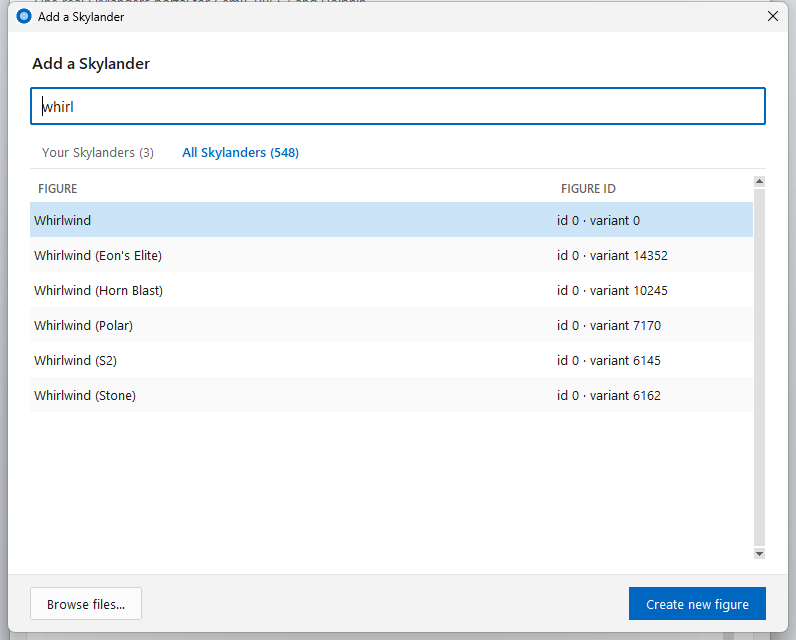
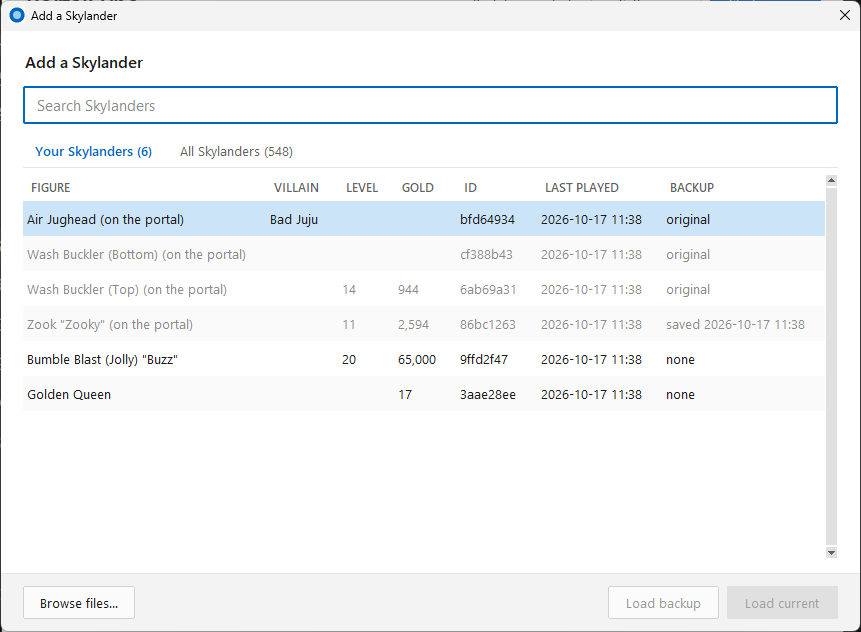
README and screenshots for PortalSync
New screenshots of the current version (test figures, made-up paths): main
window, Add Skylander, collection, restore, right-click menu, Settings,
Start a game, welcome window, dark mode. README rewritten around all
features. The collection's per-game count now wraps instead of being cut off.

diff --git a/portal_bridge.py b/portal_bridge.py
@@ -2398,7 +2398,7 @@ class App:
             self.tab_buttons[key] = ttk.Radiobutton(tabs, variable=self.tab, value=key, style='Tab.TRadiobutton',
                                                     command=self.switch_tab)
             self.tab_buttons[key].pack(side='left', padx=(0, 4))
-        self.summary = ttk.Label(body, style='CardMuted.TLabel')  # All Skylanders: what you have per game
+        self.summary = ttk.Label(body, style='CardMuted.TLabel', wraplength=740)  # All Skylanders: what you have per game
         self.summary_anchor = tk.Frame(body, background=self.LINE, height=1)
         self.summary_anchor.pack(fill='x')
 

diff --git a/README.md b/README.md
@@ -2,55 +2,92 @@
 
 *Formerly Portal Bridge.*
 
-Use one real Skylanders Portal of Power with **Cemu** (Wii U), **RPCS3** (PS3) and **Dolphin** (Wii) on Windows.
+Use one real Skylanders Portal of Power with **Cemu** (Wii U), **RPCS3** (PS3) and **Dolphin** (Wii) on Windows, and keep your game progress on your real figures.
 
-PortalSync creates a *virtual* portal over USB/IP. Every figure you place on the real portal is copied into the virtual portal, and the emulator talks only to the virtual one. The real portal can stay plugged in the whole time: a small DLL hides it from the emulators, so games never say "too many Portals".
+PortalSync creates a *virtual* portal over USB/IP. Every figure you place on the real portal is copied into the virtual portal, and the emulator talks only to the virtual one. Game saves go back onto the real figure. The real portal can stay plugged in the whole time: a small DLL hides it from the emulators, so games never say "too many Portals".
 
 ![The PortalSync window](docs/window.png)
 
+## Highlights
+
+- **One portal for three emulators:** Cemu, RPCS3 and Dolphin, with the real portal plugged in.
+- **Your progress stays on your figures:** game saves are written back to the real figure, and every block is checked.
+- **Backups of every figure**, with a pop-up to put newer progress back when a figure is behind its copy.
+- **See inside your figures:** level, gold, nickname, and the villain inside a Trap Team trap.
+- **Repair a damaged figure.** That's the one the game rejects with "A toy on the portal has a problem". You can also edit gold, nickname and level, or reset a figure to new.
+- **Trap Team sound** on the Traptanium Portal's own speaker, and the **portal lights** follow the game.
+- **Start your games from PortalSync**, a **Settings** page, a **welcome window** and **dark mode**.
+
+## Screenshots
+
+| | |
+| --- | --- |
+| ![Add a Skylander: your figures with level, gold and villain](docs/add.png) | ![All Skylanders: game, element and the ones you have](docs/collection.png) |
+| **Add Skylander**: your figures, with level, gold and the villain in a trap. | **All Skylanders**: all 548 figures, with game, element and a tick for yours. |
+| ![The restore pop-up](docs/restore.png) | ![Right-click a figure](docs/menu.png) |
+| **Restore**: put newer progress back on a figure, one figure at a time. | **Right-click a figure** to unload, edit, repair, reset or restore it. |
+| ![Settings](docs/settings.png) | ![Start a game](docs/games.png) |
+| **Settings**: hover over or click a **?** for an explanation. | **Start game**: your Skylanders games from Cemu, RPCS3 and Dolphin. |
+| ![The welcome window](docs/welcome.png) | ![Dark mode](docs/dark.png) |
+| **Welcome window** on the first start. | **Dark mode.** |
+
 ## Features
 
-- **Works with Cemu, RPCS3 and Dolphin**, with the real portal plugged in.
-- **Game saves go back to your figures** ("Write saves to real figures", on by default). Only data blocks are written, and every block is read back to check it.
-- **Backups of every figure** in the `dumps` folder, named after the character, for example `Zook (86bc1263) - original.sky`. Each figure keeps one backup, its newest. An older backup goes to the Recycle Bin, never straight to deletion.
-- **Restore saved progress.** If a figure's saved copy has progress the figure lacks, a pop-up offers to write it to the figure, one figure at a time. What the figure held before is kept as its backup, so a restore can be undone.
-- **Figure data.** Each figure's save is decrypted to show its level, gold and nickname in the Add Skylander list and the restore pop-up. For a Trap Team trap, it shows the villain inside (a Villain column in the Add Skylander list, for example Air Jughead: Bad Juju).
-- **Damaged saves are caught.** When a figure's newest save fails its checksum, the game says "A toy on the portal has a problem". PortalSync warns you as soon as such a figure is placed and offers to repair it, keeping all its progress. A damaged copy is never offered, written to a figure, or kept in place of an intact backup.
-- **Start game…** lists the Skylanders games your emulators know (Cemu's game paths, RPCS3's games.yml, Dolphin's ISO folders) and starts one with the bridge already running, so the real portal is hidden from the very start.
-- **Right-click a figure** in the slot table for Unload, Restore progress (that figure) and the actions below; the ones that write need a figure on the real portal. **Back up all figures…** (every figure into one zip) and **Restore progress…** (all figures) are on the **Settings…** page. Each action writes like a restore: what the figure held is kept as its backup, and every block is read back to check it.
-  - **Edit gold, nickname, level…**: saved the way the game saves, with the previous save kept on the figure as its fallback.
-  - **Repair damaged save…**: gives a damaged newest save valid checksums again and keeps all progress, which is what SuperChargers does.
-  - **Reset to a new figure…**: erases its progress, like a toy fresh out of the box.
-- **Collection.** The All Skylanders list shows each figure's game and element and ticks the ones you have, with a count per game.
-- **Details column** in the main window: level and gold, or the villain inside a trap.
-- **Settings…** page, all choices remembered:
-  - **Saving:** write saves to real figures; ask to put newer progress back on a figure; backups per figure (1–10); the figures folder (for example on OneDrive; your files move there on the next start).
-  - **Sound:** portal speaker volume; Trap portal sound on the portal speaker, the PC speakers, or off.
-  - **Portal:** lights on or off.
-  - **Emulators:** a path box with **Browse…** for Cemu, RPCS3 and Dolphin; start games in fullscreen.
-  - **Window:** show log; dark mode; check for a new version at start.
-- **Welcome window** on the first start: light or dark, write saves to figures, Trap portal sound, lights, update check and your emulators.
-  - **All figures:** back up all figures to a zip; restore progress.
-- **Drag and drop** `.sky` files onto the window to load them.
-- **Update check.** At start PortalSync looks up the latest release on GitHub, and shows a link in the window when there is a newer version.
-- **Saves are written safely.** A save that fails to reach the figure is tried up to three times. A newer save replaces an older retry, and the status line shows retries and failures; a failure also opens a pop-up. The progress is always in the figure's current `.sky` file. Turning write-back off cancels saves that are still waiting. Invalid block numbers and incomplete writes from the game are refused before anything reaches the portal. An empty, cut-off or unreadable backup never replaces an intact one.
-- **Trap Team sound** plays on the Traptanium Portal's own speaker, or on the PC speakers when no Traptanium Portal is connected.
-- **Portal lights** follow the game.
-- **Unplugging is safe.** Figures on the virtual portal stay loaded while the real portal is away, and saves made meanwhile are written when it comes back.
-- **Add Skylander window** with a search box, no file explorer needed:
-  - **Your Skylanders** lists every figure you have played. Load its current copy or its backup (a backup is loaded as a copy, so the backup itself never changes).
-  - **All Skylanders** lists all 548 figures, the 31 Imaginators Senseis included. **Create new figure** makes a blank one, fresh out of the box, the way Dolphin and RPCS3 create figures. It works without a real portal.
-  - **Browse files…** still loads any `.sky` file from elsewhere.
+### Portal and emulators
 
-![The Add Skylander window](docs/add.png)
+- **Cemu, RPCS3 and Dolphin** see only the virtual portal. `portal_hide.dll` hides the real one, so there's no "too many Portals".
+- **Start game…** lists the Skylanders games each emulator knows (Cemu's game paths, RPCS3's `games.yml`, Dolphin's ISO folders). It starts the one you pick with PortalSync already running, optionally in fullscreen.
+- **Fast recognition:** a figure is ready in about a second. Both halves of a Swapper take about 2.3 s.
+- **Unplugging is safe:** figures stay loaded while the real portal is away, and saves made meanwhile are written when it comes back.
+- **Pop-ups over fullscreen games:** a warning or a restore question takes the focus in front of the game, then gives it back.
 
-![The restore pop-up](docs/restore.png)
+### Figures
+
+- **Add Skylander** (no file explorer needed):
+  - **Your Skylanders:** every figure you've played, with level, gold, nickname, the villain in a trap, when it was last played, and its backup. Load its current copy or its backup.
+  - **All Skylanders:** all 548 figures, the 31 Imaginators Senseis included, with game, element and a tick for the ones you have, plus a count per game. **Create new figure** makes a blank one, fresh out of the box, like Dolphin and RPCS3 do.
+  - **Search** by name, ID, game or element.
+  - **Browse files…** for any other `.sky` file, or **drag and drop** `.sky` files onto the window.
+- **Details** in the main window: level and gold, or "holds Bad Juju" for a trap.
+- **Trap Team traps:** PortalSync shows which villain is inside, and which villains it held before. The 46 villain IDs come from the game's own files.
+
+### Saves and backups
+
+- **Write saves to real figures** (on by default). Only data blocks are written, and every block is read back to check it.
+  - **Retries:** a save that fails is tried up to three times, and a newer save replaces an older retry. The status line shows retries and failures.
+  - **Nothing invalid reaches the figure:** invalid or incomplete writes from the game are refused first.
+- **Backups** in the `dumps` folder, named after the character, for example `Zook (86bc1263) - original.sky`.
+  - Keep 1 to 10 per figure. Older ones go to the Recycle Bin, never straight to deletion.
+  - An empty, cut-off or damaged copy never replaces an intact backup.
+- **Restore progress:** when a figure you place is behind its saved copy, a pop-up offers to write that progress onto the figure. What the figure held is kept as its backup, so a restore can be undone.
+- **Damaged saves:** when a figure's newest save fails its checksum, the game says "A toy on the portal has a problem". PortalSync warns you as soon as such a figure is placed and offers a **repair** that keeps all its progress.
+- **Right-click a figure** on the real portal for these actions. Each one writes like a restore: backup first, then every block checked.
+  - **Edit gold, nickname, level…**: up to level 20, saved the way the game saves, with the previous save kept as its fallback.
+  - **Repair damaged save…**
+  - **Reset to a new figure…**: like a toy fresh out of the box.
+  - **Restore progress…**
+- **Back up all figures** into one zip.
+
+### Sound and lights
+
+- **Trap Team sound** on the Traptanium Portal's speaker, on the PC speakers, or off, with a volume slider.
+- **Portal lights** follow the game, or stay off.
+
+### Settings
+
+- **Settings…** page. All choices are remembered, and a **?** next to an option explains it.
+  - **Saving:** write saves to figures, the restore pop-up, backups per figure, and the figures folder (for example on OneDrive; your files move there on the next start).
+  - **Sound and lights.**
+  - **Emulators:** a path box with **Browse…** for each one, and fullscreen start.
+  - **Window:** show log, dark mode, and the update check.
+- **Welcome window** on the first start, with the main choices. Dark mode chosen there is used straight away.
+- **Update check:** a link in the window when a newer release is out.
 
 ## Tested
 
 | Emulator | Game | Notes |
 | --- | --- | --- |
-| Cemu 2.6 | Skylanders Trap Team, SuperChargers, Swap Force | Traps, vehicles, Swap Force halves, portal speaker. |
+| Cemu 2.6 | Skylanders Trap Team, SuperChargers, Swap Force | Traps, vehicles, Swap Force halves, portal speaker, repair. |
 | RPCS3 | Skylanders Giants (BLES01689) | |
 | Dolphin | Skylanders Spyro's Adventure | Needs USB passthrough, see below. |
 
@@ -67,7 +104,7 @@ All of them were tested with a Traptanium Portal (USB ID `1430:0150`) on Windows
 ### The exe (easiest)
 
 1. Download the zip from the [latest release](../../releases/latest) and unzip it to a folder of its own. The folder holds `PortalSync.exe`, `portal_hide.dll`, `portal_descriptors.json`, `figure_names.json` and `figure_details.json`; keep them together.
-2. Double-click `PortalSync.exe`. Your figure dumps go to a `dumps` folder next to it.
+2. Double-click `PortalSync.exe`. The welcome window asks for a few choices, and your figures go to a `dumps` folder next to it.
 
 Some antivirus programs distrust exes packed with PyInstaller, and programs that load a DLL into another process. Both are what PortalSync does, so it may be flagged. You can check the source here and build both files yourself.
 
@@ -78,37 +115,35 @@ pip install -r requirements.txt
 python portal_bridge.py
 ```
 
-Python 3.13 was used. Build `portal_hide.dll` in an *x64 Native Tools Command Prompt for VS 2022*:
+Python 3.13 was used. To build the exe and the DLL together, install PyInstaller as well, then run `powershell -ExecutionPolicy Bypass -File build.ps1`. This needs the Visual Studio C++ x64 build tools. To build only `portal_hide.dll`, use an *x64 Native Tools Command Prompt for VS 2022*:
 
 ```
 cl /nologo /O2 /LD portal_hide.c cfgmgr32.lib
 ```
 
-To build the exe and the DLL together, install PyInstaller alongside the requirements, then run `powershell -ExecutionPolicy Bypass -File build.ps1` (needs the Visual Studio C++ x64 build tools). It puts `PortalSync.exe` and `portal_hide.dll` next to the source.
-
 ## Usage
 
 1. Plug in the real portal.
-2. Start PortalSync **before** the emulator boots a game.
-3. Start the emulator and the game. The Activity log shows that the real portal is hidden from it.
-4. Place figures on the real portal. Each one appears in the game.
+2. Start PortalSync **before** the emulator boots a game. The easiest way is to use **Start game…**.
+3. Place figures on the real portal. Each one appears in the game.
 
 Close the window to stop. That disconnects the virtual portal.
 
-If a game was already running when you started the bridge, the game holds the real portal. The bridge then shows a pop-up: stop the game, unplug and replug the real portal, and start the game again.
+If a game was already running when you started PortalSync, the game holds the real portal, and PortalSync shows a pop-up. To fix it, stop the game, unplug and replug the real portal, and start the game again.
 
 ### Emulator settings
 
 - **Cemu:** no settings needed. In the Cemu hybrid build, keep the *Hybrid* checkbox off.
-- **RPCS3:** start the bridge before booting the game. With no portal at boot, RPCS3 adds its own emulated portal.
+- **RPCS3:** start PortalSync before booting the game. With no portal at boot, RPCS3 adds its own emulated portal.
 - **Dolphin:** add `1430:0150` to the USB passthrough whitelist, and keep Dolphin's own emulated Skylanders portal off.
 
 ## How it works
 
-- `portal_bridge.py` is a USB/IP server. usbip-win2 attaches its virtual portal, and Windows sees a second `1430:0150` HID device. The portal protocol (status reports, block reads and writes, lights, audio) is ported from Dolphin's emulated portal.
-- The bridge claims the real portal with libusb, reads each figure placed on it, and loads it into a free virtual slot. Game writes go to `dumps\<character> (<id>) - current.sky`, and to the real figure when write-back is on.
-- `portal_hide.dll` is loaded into each running Cemu, RPCS3 and Dolphin process. It patches `SetupDiGetDeviceInstanceIdA` so that it fails for a portal behind a real (PCI) USB controller while the virtual portal exists. libusb then skips the real portal. Nothing is written to the emulator folders, and the patch goes away when the emulator closes.
-- The real portal's quirks found while testing are handled: stale block reads (the bridge checks every read), repeated status reports, and audio blocking control transfers.
+- **The virtual portal:** `portal_bridge.py` is a USB/IP server. usbip-win2 attaches its virtual portal, and Windows sees a second `1430:0150` HID device. The portal protocol (status reports, block reads and writes, lights, audio) is ported from Dolphin's emulated portal.
+- **The real portal:** PortalSync claims it with libusb, reads each figure placed on it, and loads it into a free virtual slot. Game writes go to `dumps\<character> (<id>) - current.sky`, and to the real figure when write-back is on.
+- **Hiding the real portal:** `portal_hide.dll` is loaded into each running Cemu, RPCS3 and Dolphin process. It patches `SetupDiGetDeviceInstanceIdA` so that it fails for a portal behind a real (PCI) USB controller while the virtual portal exists, and libusb then skips the real portal. Nothing is written to the emulator folders, and the patch goes away when the emulator closes.
+- **Reading figure saves:** saves are decrypted the way Dolphin does it (AES from Windows itself, no extra package). Checksum types 1–3 cover the main save area, and type 6 covers the second area that holds the later games' experience.
+- **Portal quirks found while testing:** this portal sometimes answers with the previous block's data, sends repeated status reports, and lets audio block control transfers. PortalSync handles all three.
 
 ## Tests
 
@@ -117,7 +152,7 @@ python test_portal_bridge.py
 python -m unittest -v test_save_safety
 ```
 
-It prints `ok`. The tests use fake portals and a loopback USB/IP client, so no hardware is needed.
+The first prints `ok`, and the second runs 16 save-safety tests. The tests use fake portals and a loopback USB/IP client, so no hardware is needed.
 
 ## Files
 
@@ -126,12 +161,13 @@ It prints `ok`. The tests use fake portals and a loopback USB/IP client, so no h
 | `portal_bridge.py` | The program: USB/IP server, portal logic, window. |
 | `portal_hide.c` | Source of `portal_hide.dll`. |
 | `portal_descriptors.json` | USB descriptors of a real portal, which the virtual portal copies. Recreate them from your own portal with `python portal_bridge.py capture`. |
-| `figure_details.json` | Game and element of each figure, from Dolphin's Skylander list (the Senseis: Imaginators). |
-| `figure_names.json` | Figure IDs and names (548 figures): Dolphin's Skylander list plus the 31 Imaginators Senseis from Cemu's and RPCS3's lists. Creation Crystals are not in it; neither emulator lists them. |
-| `test_portal_bridge.py` | Tests. |
+| `figure_names.json` | Figure IDs and names (548): Dolphin's Skylander list plus the 31 Imaginators Senseis from Cemu's and RPCS3's lists. Creation Crystals are missing, because neither emulator lists them. |
+| `figure_details.json` | Game and element of each figure, from Dolphin's list. |
+| `test_portal_bridge.py`, `test_save_safety.py` | Tests. |
+| `build.ps1` | Builds `PortalSync.exe` and `portal_hide.dll`. |
 | `portal.ico` | Icon. |
 
-Your figure dumps, the log and the window settings stay local (`dumps\`, `bridge.log`, `settings.json`). They are never part of the repository.
+Your figures, the log and your settings stay on your PC (`dumps\`, `bridge.log`, `settings.json`). They're never part of the repository.
 
 ## Credits
 
